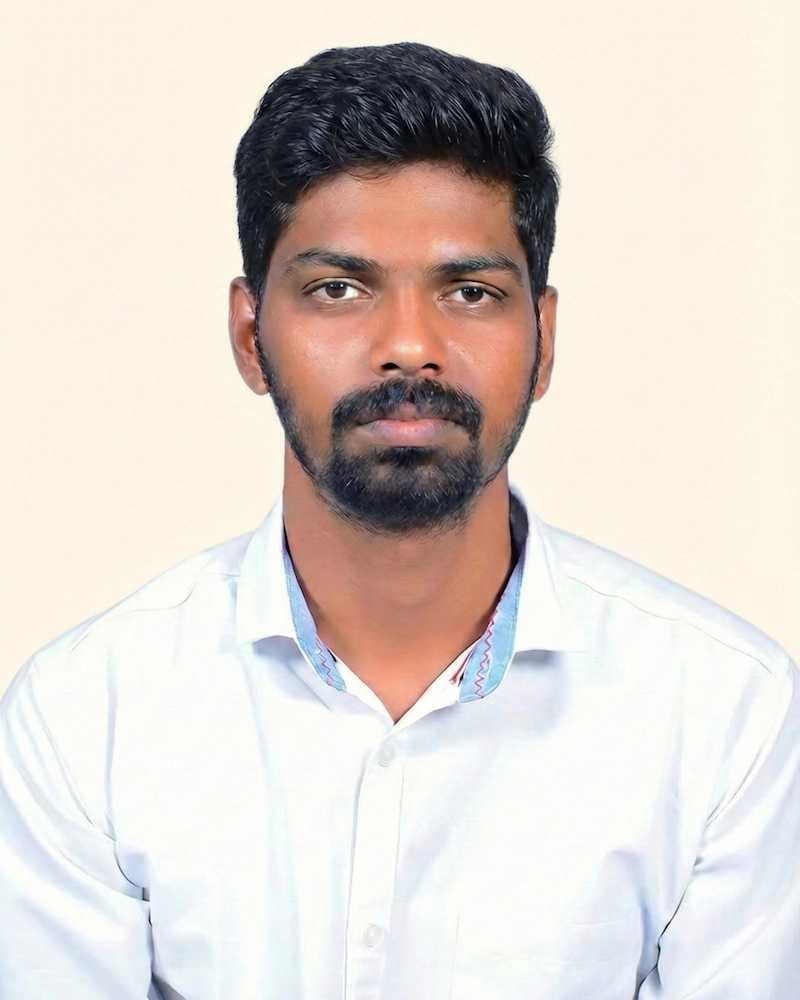
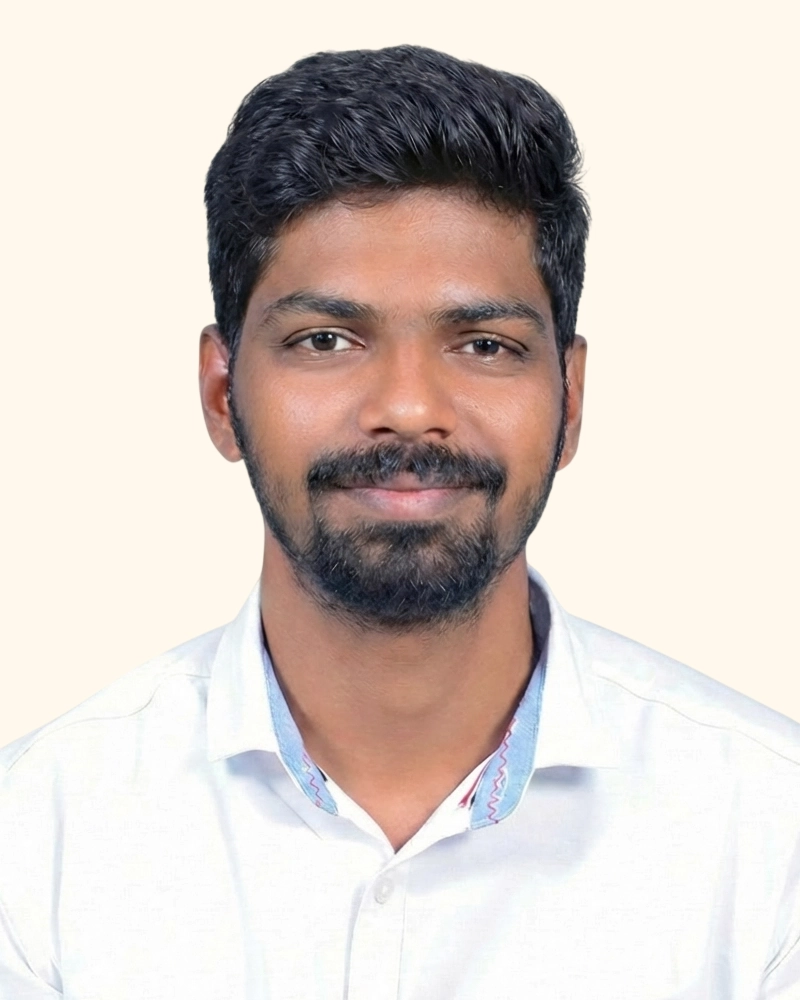
feat(ui): update loading screen animation and developer copy text

diff --git a/src/components/ui/LoadingScreen.tsx b/src/components/ui/LoadingScreen.tsx
@@ -5,12 +5,10 @@ export default function LoadingScreen() {
     const [isLoading, setIsLoading] = useState(true);
 
     useEffect(() => {
-        // Hide loading screen when page is fully loaded
         const handleLoad = () => {
             setIsLoading(false);
         };
 
-        // If already loaded, hide immediately via a tiny timeout to avoid synchronous setState during render
         if (document.readyState === 'complete') {
             setTimeout(() => setIsLoading(false), 0);
         } else {
@@ -26,29 +24,33 @@ export default function LoadingScreen() {
                 <motion.div
                     initial={{ opacity: 1 }}
                     exit={{ opacity: 0 }}
-                    transition={{ duration: 0.3 }}
-                    className="fixed inset-0 z-[100] flex items-center justify-center bg-black"
+                    transition={{ duration: 0.8, ease: 'easeInOut' }}
+                    className="fixed inset-0 z-[100] flex flex-col items-center justify-center bg-[#fff9ed]"
                 >
-                    <div className="flex items-center gap-3 font-mono text-green-400">
-                        {/* Blinking cursor */}
-                        <motion.span
-                            animate={{ opacity: [1, 0, 1] }}
-                            transition={{ duration: 0.8, repeat: Infinity }}
-                            className="text-green-500 text-xl"
+                    <div className="flex flex-col items-center gap-6">
+                        {/* Top elegant line */}
+                        <motion.div
+                            initial={{ width: 0 }}
+                            animate={{ width: 100 }}
+                            transition={{ duration: 1.5, ease: "easeInOut", repeat: Infinity, repeatType: "reverse" }}
+                            className="h-[1px] bg-[#1d3557] opacity-60"
+                        />
+                        
+                        {/* Wide-tracked typographic text */}
+                        <motion.span 
+                            animate={{ opacity: [0.4, 1, 0.4] }}
+                            transition={{ duration: 2, repeat: Infinity, ease: "easeInOut" }}
+                            className="text-xs font-sans tracking-[0.4em] text-[#1d3557] uppercase ml-1"
                         >
-                            ▸
+                            Loading
                         </motion.span>
                         
-                        {/* Loading text */}
-                        <span className="text-sm md:text-base">
-                            Loading...
-                        </span>
-                        
-                        {/* Blinking cursor */}
-                        <motion.span
-                            animate={{ opacity: [1, 0] }}
-                            transition={{ duration: 0.5, repeat: Infinity }}
-                            className="inline-block w-2 h-4 bg-green-400"
+                        {/* Bottom elegant line with slight delay for wave effect */}
+                        <motion.div
+                            initial={{ width: 0 }}
+                            animate={{ width: 100 }}
+                            transition={{ duration: 1.5, ease: "easeInOut", repeat: Infinity, repeatType: "reverse", delay: 0.2 }}
+                            className="h-[1px] bg-[#1d3557] opacity-60"
                         />
                     </div>
                 </motion.div>

diff --git a/src/pages/About.tsx b/src/pages/About.tsx
@@ -34,7 +34,7 @@ export const About = () => {
                         </h2>
                         <div className="w-12 h-1 bg-[#e63946] rounded-full"></div>
                         <p className="text-gray-600 leading-relaxed font-sans text-lg">
-                            I am a highly motivated engineer who blends a passion for problem-solving with rigorous, clean architecture.
+                            I am a highly motivated developer who blends a passion for problem-solving with rigorous, clean architecture.
                         </p>
                     </div>
 
@@ -66,7 +66,7 @@ export const About = () => {
                     </div>
                 </div>
 
-                {/* Right Column: The Engineering Journey */}
+                {/* Right Column: The Development Journey */}
                 <div className="lg:col-span-8 flex flex-col justify-center space-y-16">
                     
                     {/* Story Section */}
@@ -77,7 +77,7 @@ export const About = () => {
                             viewport={{ once: true }}
                             transition={{ duration: 0.5 }}
                         >
-                            My engineering journey began on the surface: crafting pixel-perfect, responsive interfaces as a frontend developer at my current company. I loved the immediate visual feedback of translating designs into interactive web components, ensuring users had a smooth, intuitive experience.
+                            My development journey began on the surface: crafting pixel-perfect, responsive interfaces as a frontend developer at my current company. I loved the immediate visual feedback of translating designs into interactive web components, ensuring users had a smooth, intuitive experience.
                         </motion.p>
                         <motion.p
                             initial={{ opacity: 0 }}

diff --git a/src/pages/Projects.tsx b/src/pages/Projects.tsx
@@ -88,7 +88,7 @@ export const Projects = () => {
             title: 'DevDesk',
             type: 'Multi-Tenant SaaS Helpdesk',
             problem: 'Organizations struggle to manage B2B support tickets effectively while maintaining strict data isolation between different clients and enforcing varied permission levels for agents.',
-            architecture: 'Engineered a scalable Node.js/Express backend with Prisma and PostgreSQL. Implemented secure Role-Based Access Control (RBAC) across multiple tiers and automated workflow states to isolate organizational data robustly.',
+            architecture: 'Developed a scalable Node.js/Express backend with Prisma and PostgreSQL. Implemented secure Role-Based Access Control (RBAC) across multiple tiers and automated workflow states to isolate organizational data robustly.',
             impact: 'Delivered a high-performance support platform that securely segregates multi-tenant data, streamlining complex B2B ticket resolutions and providing global analytical oversight for administrators.',
             tags: ['React', 'Node.js', 'Express', 'Prisma', 'PostgreSQL', 'RBAC'],
             links: {
@@ -137,7 +137,7 @@ export const Projects = () => {
                 </h2>
                 <div className="w-16 h-1 bg-[#e63946] rounded-full"></div>
                 <p className="text-lg text-gray-600 font-sans leading-relaxed">
-                    A curated selection of engineering work. Rather than just showing the interface, these case studies detail the problems faced, the architectural decisions made, and the resulting impact.
+                    A curated selection of development work. Rather than just showing the interface, these case studies detail the problems faced, the architectural decisions made, and the resulting impact.
                 </p>
             </motion.div>
 

diff --git a/index.html b/index.html
@@ -14,7 +14,7 @@
   <meta name="keywords"
     content="Web Developer, React Developer, Full Stack, Portfolio, Frontend, Backend, Purushothaman R" />
   <meta name="theme-color" content="#1d3557" />
-  <link rel="manifest" href="/manifest.json" />
+  <link rel="manifest" href="/site.webmanifest" />
 
   <!-- Open Graph / Facebook / LinkedIn -->
   <meta property="og:type" content="website" />
@@ -22,7 +22,7 @@
   <meta property="og:title" content="Purushothaman R | Full Stack Developer" />
   <meta property="og:description"
     content="A premium portfolio showcasing full-stack web development projects, skills, and certifications." />
-  <meta property="og:image" content="https://purushoth.is-a.dev/favicon.svg" />
+  <meta property="og:image" content="https://purushoth.is-a.dev/photo.webp" />
 
   <!-- Twitter -->
   <meta property="twitter:card" content="summary" />
@@ -30,7 +30,7 @@
   <meta property="twitter:title" content="Purushothaman R | Full Stack Developer" />
   <meta property="twitter:description"
     content="A premium portfolio showcasing full-stack web development projects, skills, and certifications." />
-  <meta property="twitter:image" content="https://purushoth.is-a.dev/favicon.svg" />
+  <meta property="twitter:image" content="https://purushoth.is-a.dev/photo.webp" />
   <script type="application/ld+json">
     {
       "@context": "https://schema.org",

diff --git a/src/pages/Home.tsx b/src/pages/Home.tsx
@@ -28,7 +28,7 @@ export default function Home() {
                         className="inline-flex items-center space-x-3 px-4 py-1.5 rounded-full border border-black/10 bg-white shadow-sm text-xs font-sans tracking-widest uppercase font-semibold text-gray-600"
                     >
                         <span className="w-2 h-2 rounded-full bg-[#e63946] animate-pulse"></span>
-                        <span>Purushothaman R &mdash; Full Stack Engineer</span>
+                        <span>Purushothaman R &mdash; Full Stack Developer</span>
                     </motion.div>
 
                     <div className="space-y-6">
@@ -38,7 +38,7 @@ export default function Home() {
                             transition={{ duration: 0.5, delay: 0.1 }}
                             className="text-5xl md:text-7xl font-bold tracking-tight text-[#1d3557] font-sans leading-[1.1]"
                         >
-                            Engineering the <span className="text-[#e63946] italic pr-2">hidden logic</span> <br className="hidden md:block" />
+                            Developing the <span className="text-[#e63946] italic pr-2">hidden logic</span> <br className="hidden md:block" />
                             that powers seamless experiences.
                         </motion.h1>
                     </div>

diff --git a/src/pages/Contact.tsx b/src/pages/Contact.tsx
@@ -53,7 +53,7 @@ export const Contact = () => {
                         </h2>
                         <div className="w-16 h-1 bg-[#e63946] rounded-full"></div>
                         <p className="text-lg text-gray-600 leading-relaxed font-sans">
-                            Whether you need a robust backend architecture, a full-stack web application, or just want to discuss engineering challenges—I'm always open to new opportunities.
+                            Whether you need a robust backend architecture, a full-stack web application, or just want to discuss development challenges—I'm always open to new opportunities.
                         </p>
                     </div>
 

diff --git a/src/components/layout/Footer.tsx b/src/components/layout/Footer.tsx
@@ -21,7 +21,7 @@ const Footer = () => {
                     <div className="md:col-span-5 space-y-6">
                         <Logo />
                         <p className="text-gray-500 font-sans text-sm leading-relaxed max-w-xs">
-                            Full-stack engineer specializing in scalable backend systems and clean API architecture. Building systems that are resilient by design.
+                            Full-stack developer specializing in scalable backend systems and clean API architecture. Building systems that are resilient by design.
                         </p>
                         <div className="flex items-center gap-3">
                             <a

diff --git a/README.md b/README.md
@@ -1,6 +1,6 @@
 # Purushothaman R — Portfolio 2.0
 
-> *"Engineering the hidden logic that powers seamless user experiences."*
+> *"Developing the hidden logic that powers seamless user experiences."*
 
 ---
 
@@ -8,9 +8,9 @@
 
 Every developer reaches a point where their online presence needs to match the work they're doing — not just list it. This portfolio is version 2.0 of that effort.
 
-The first version was a hacker-aesthetic experiment: terminals, dark grids, blinking cursors. It was fun to build. But as my focus shifted from frontend tinkering to backend architecture and full-stack engineering, the presentation needed to evolve too. Version 2.0 is the result — an **editorial, narrative-driven** redesign built to tell a story, not just display a résumé.
+The first version was a hacker-aesthetic experiment: terminals, dark grids, blinking cursors. It was fun to build. But as my focus shifted from frontend tinkering to backend architecture and full-stack development, the presentation needed to evolve too. Version 2.0 is the result — an **editorial, narrative-driven** redesign built to tell a story, not just display a résumé.
 
-The design philosophy is simple: clean typography, intentional whitespace, and a layout that guides the reader through the engineering journey rather than overwhelming them with information.
+The design philosophy is simple: clean typography, intentional whitespace, and a layout that guides the reader through the development journey rather than overwhelming them with information.
 
 ---
 
@@ -91,6 +91,6 @@ The project is pre-configured for **Netlify** (see `netlify.toml`) and works equ
 ## Contact
 
 **Purushothaman R**  
-Full Stack Engineer — Bangalore, KA (originally from Vellore, TN)  
+Full Stack Developer — Bangalore, KA (originally from Vellore, TN)  
 [rpurushothaman500@gmail.com](mailto:rpurushothaman500@gmail.com)  
 [github.com/purushothaman-web](https://github.com/purushothaman-web)
